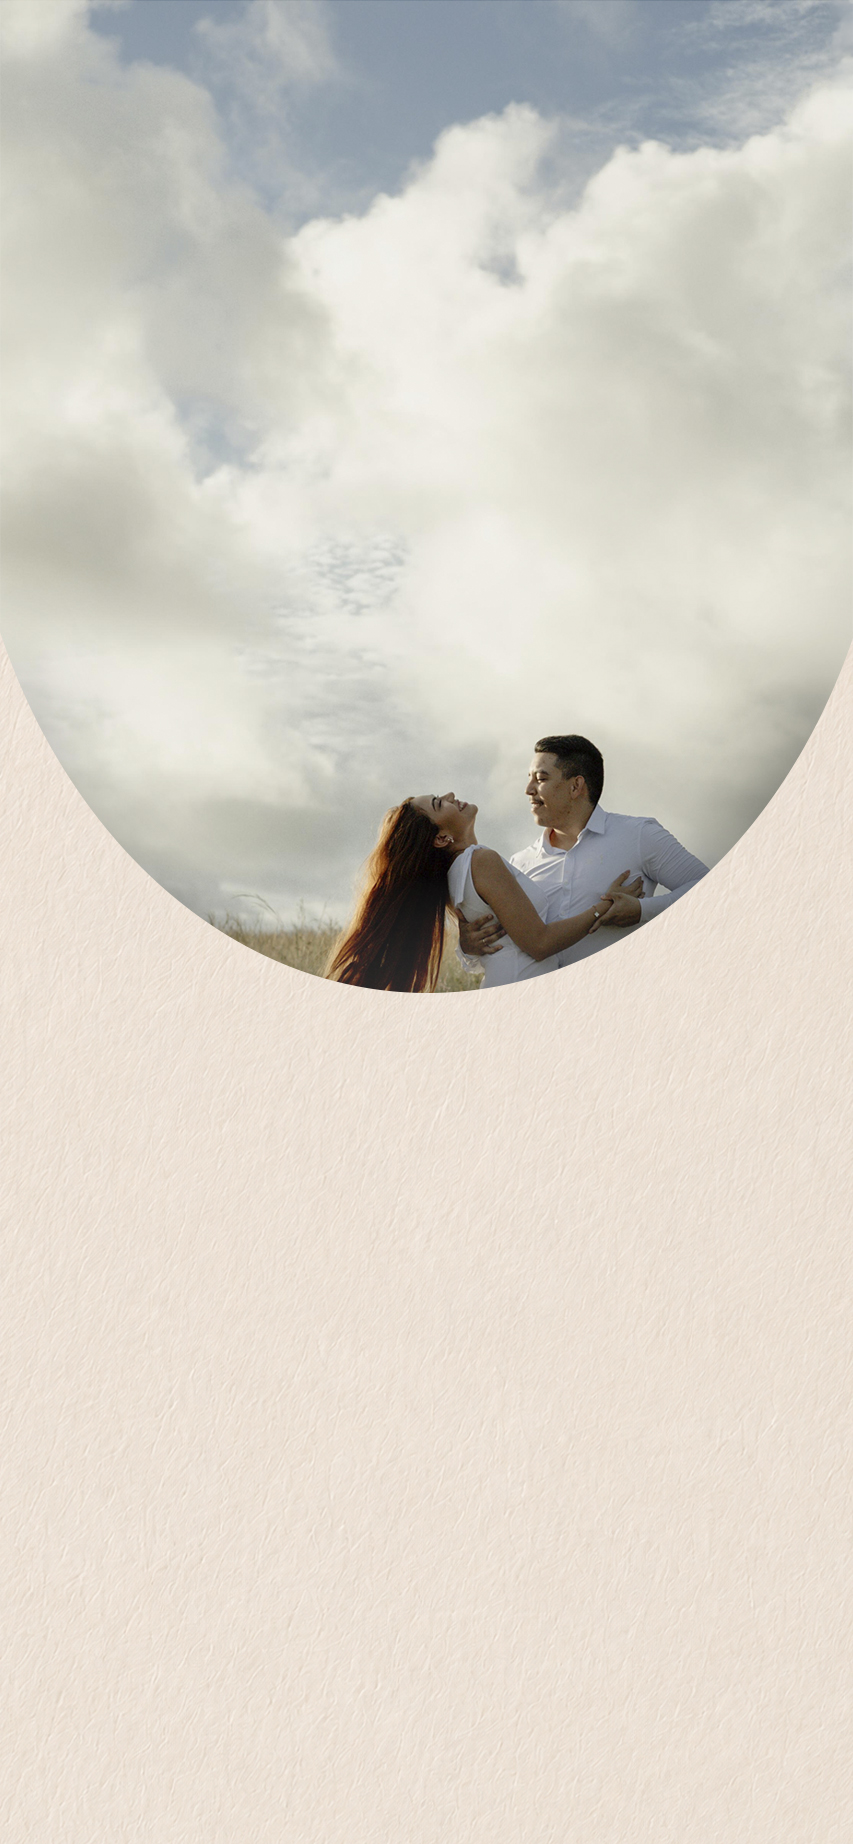
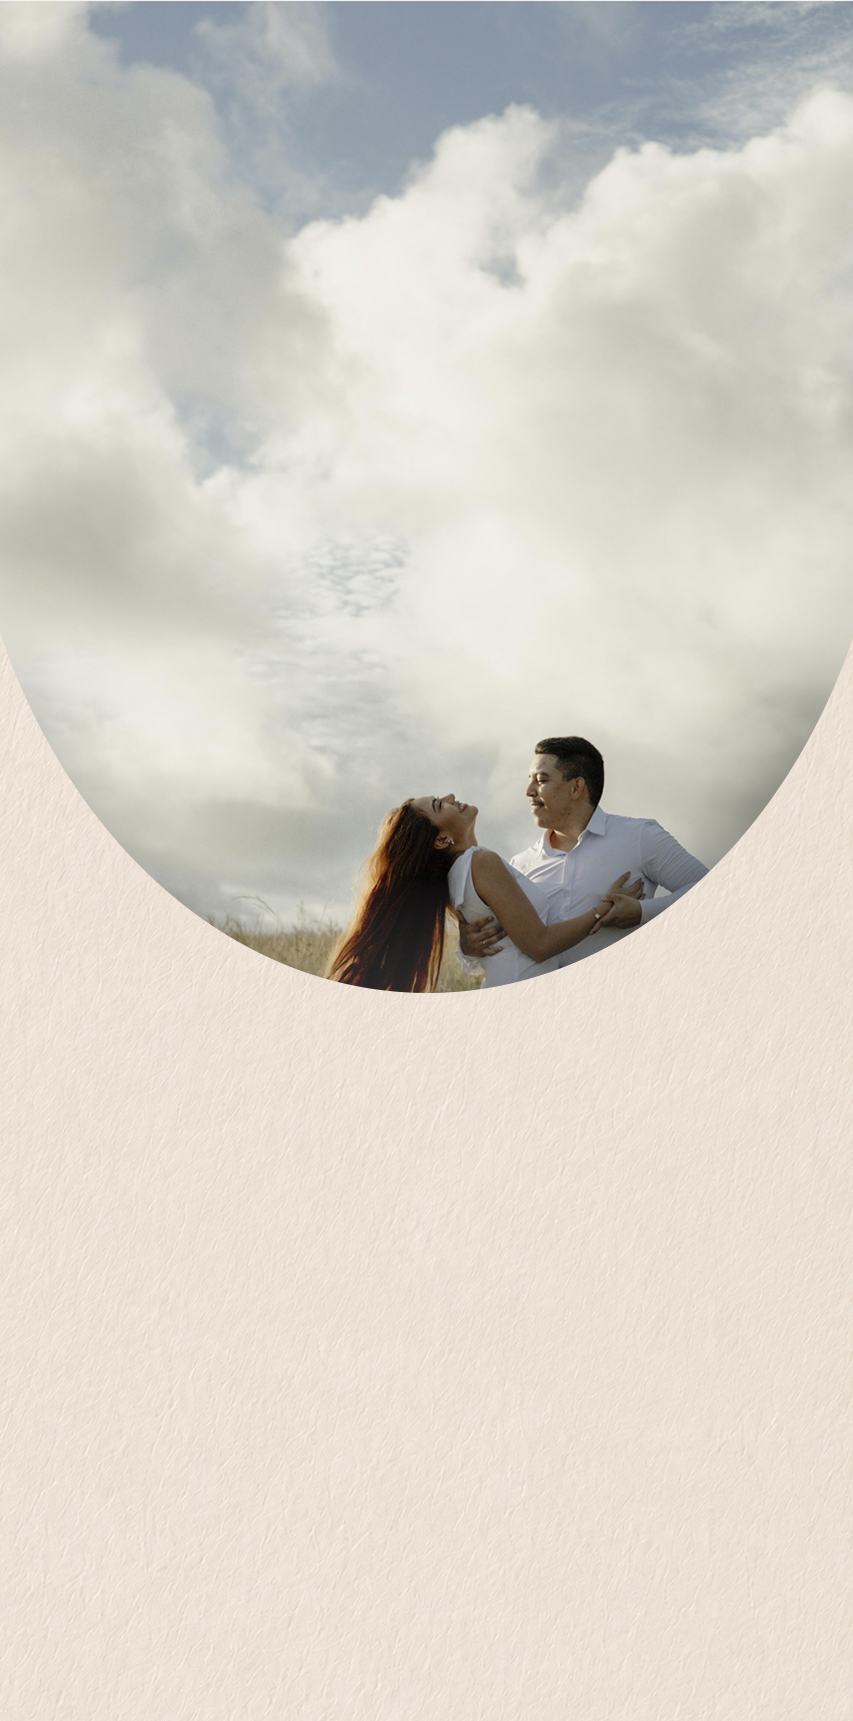
V6

diff --git a/css/overlay.css b/css/overlay.css
@@ -24,7 +24,7 @@
   pointer-events: none;
 }
 
-/* ===== ENVELOPE ===== */
+/* ===== ENVELOPE (PC - Exatamente como no seu código original) ===== */
 .envelope {
   position: relative;
 
@@ -35,6 +35,7 @@
 
   perspective: 1800px;
 }
+
 .envelope-full {
   position: absolute;
   inset: 0;
@@ -51,7 +52,6 @@
   transform: scale(1.06);
 }
 
-/* base */
 .envelope-back {
   position: absolute;
   inset: 0;
@@ -64,7 +64,6 @@
   z-index: 2;
 }
 
-/* aba */
 .envelope-flap {
   position: absolute;
   inset: 0;
@@ -76,6 +75,7 @@
 
   z-index: 5;
 }
+
 .flap-img {
   position: absolute;
   inset: 0;
@@ -89,6 +89,7 @@
 
   filter: drop-shadow(0 6px 10px rgba(0, 0, 0, 0.12));
 }
+
 .envelope-full,
 .envelope-back,
 .flap-img {
@@ -101,12 +102,10 @@
   object-fit: cover;
 }
 
-/* abre a aba */
 .envelope.open .envelope-flap {
   transform: rotateX(150deg);
 }
 
-/* ===== SELO ===== */
 .seal-btn {
   position: absolute;
 
@@ -136,21 +135,24 @@
   filter: drop-shadow(0 8px 12px rgba(0, 0, 0, 0.22));
 }
 
-/* celular */
+/* ===== MODIFICAÇÕES APENAS PARA CELULAR ===== */
 @media (max-width: 768px) {
-  .envelope {
-    width: 96vw;
+  /* No celular o fundo do overlay fica transparente para o hero aparecer */
+  .overlay {
+    background: transparent;
   }
-}
 
-@media (max-width: 768px) {
+  /* Oculta a imagem estática interna da carta no celular */
+  .envelope-full {
+    display: none !important;
+  }
+
   .envelope {
     width: 100vw;
-    height: 100vh;
+    height: 100dvh;
     aspect-ratio: auto;
   }
 
-  .envelope-full,
   .envelope-back,
   .flap-img {
     object-fit: cover;
@@ -159,5 +161,9 @@
   .seal-btn {
     width: 60%;
     top: 56%;
+  }
+
+  .hero {
+    height: 100dvh;
   }
 }

diff --git a/index.html b/index.html
@@ -24,16 +24,19 @@
     <link rel="stylesheet" href="./css/gifts.css" />
     <link rel="stylesheet" href="./css/overlay.css" />
   </head>
-  <body id="topo">
+  <body id="topo" class="no-scroll">
+    <!-- OVERLAY (Apenas a carta por cima do site) -->
     <div id="overlay" class="overlay">
       <div id="envelope" class="envelope">
+        <!-- Imagem do PC: Textura de papel -->
         <img
           src="./imgs/textura-de-papel.jpeg"
           class="envelope-full"
-          alt="Envelope"
+          alt="Envelope Papel"
         />
 
-        <img src="./imgs/baixo.png" class="envelope-back" alt="Envelope" />
+        <!-- Imagem do Celular: Carta vazada (transparente por dentro) -->
+        <img src="./imgs/baixo.png" class="envelope-back" alt="Envelope Base" />
 
         <div class="envelope-flap">
           <img src="./imgs/cima.png" class="flap-img" alt="Aba do envelope" />
@@ -44,6 +47,7 @@
         </div>
       </div>
     </div>
+
     <section id="home" class="hero">
       <div class="hero-background"></div>
       <div class="monograma-inicial-container">

diff --git a/css/hero.css b/css/hero.css
@@ -1,3 +1,4 @@
+/* ===== HERO (ORIGINAL) ===== */
 .hero {
   height: 100vh;
   position: relative;
@@ -8,19 +9,17 @@
   justify-content: center;
 }
 
-/* IMAGEM */
 .hero-background {
   position: absolute;
   inset: 0;
 
-  background-image: url("../imgs/1.jpeg");
+  background-image: url("../imgs/1_test.jpeg");
   background-size: cover;
   background-position: center;
 
   z-index: 0;
 }
 
-/* CAMADA DE FADE */
 .hero::after {
   content: "";
 
@@ -36,7 +35,7 @@
 
   z-index: 1;
 }
-/* TEXTO */
+
 .hero-content {
   position: relative;
   z-index: 2;
